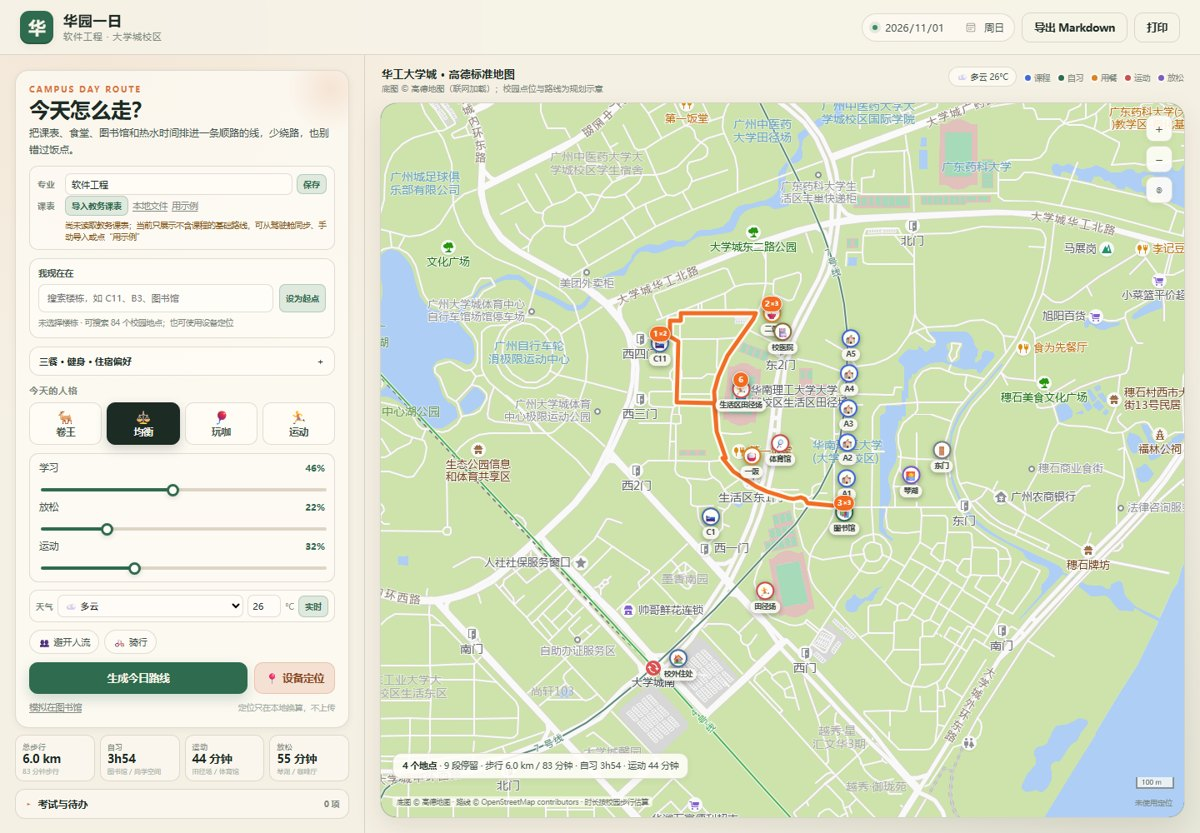
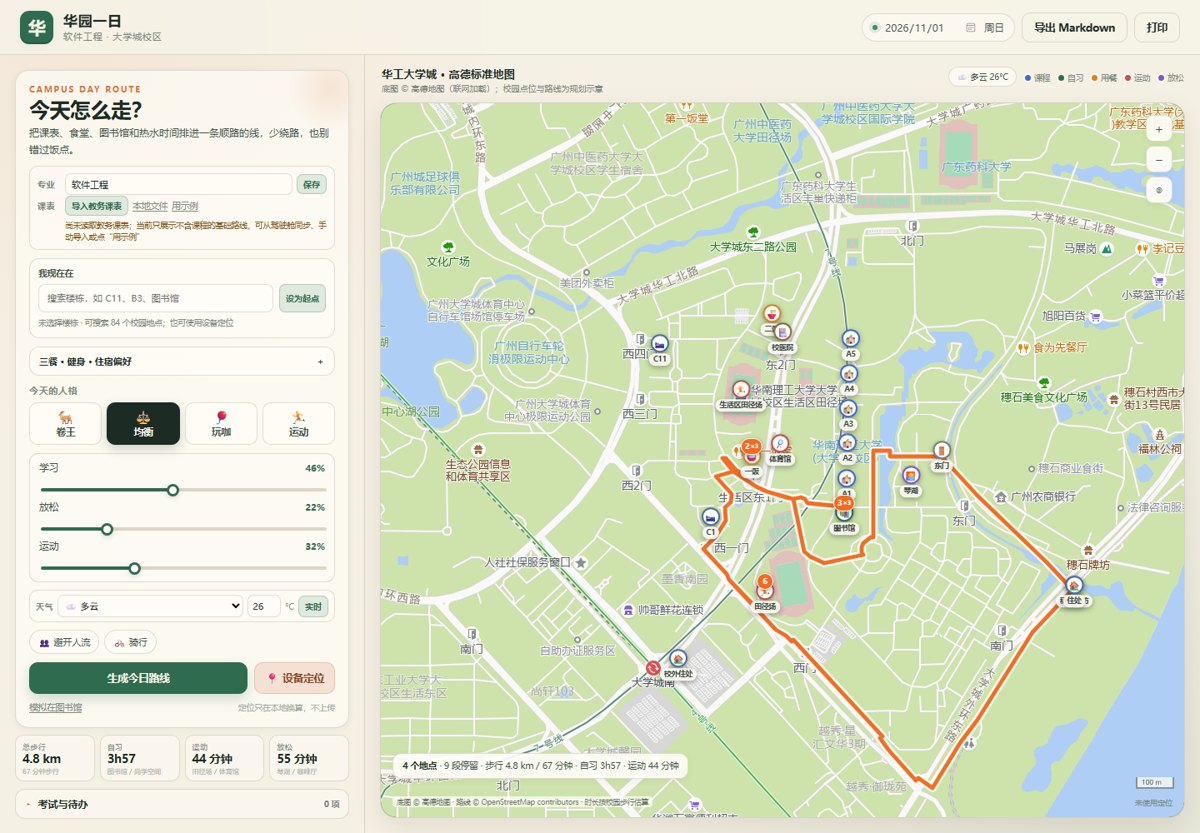
fix: route Suishi walkers through the east gate
Uses a short manual approach from the archway to the East Gate before OSRM routing, avoiding the outer-ring detour.

diff --git a/skills/huayuan-campus-route/public/app.js b/skills/huayuan-campus-route/public/app.js
@@ -256,6 +256,13 @@
   // ---------- 步行道路线（OSM foot routing） ----------
 
   const roadCache = new Map();
+  const SUISHI_APPROACH = [
+    [23.0452, 113.4113],
+    [23.0459, 113.4106],
+    [23.0467, 113.4097],
+    [23.0475, 113.4088],
+    [23.0484, 113.4079],
+  ];
 
   function gcj02ToWgs84(lat, lng) {
     let wlat = lat;
@@ -268,13 +275,20 @@
     return { lat: wlat, lng: wlng };
   }
 
-  async function fetchRoadLeg(from, to) {
-    const key = `${from.lat.toFixed(6)},${from.lng.toFixed(6)}|${to.lat.toFixed(6)},${to.lng.toFixed(6)}`;
+  async function fetchRoadLeg(from, to, via) {
+    const viaKey = via ? `${via.lat.toFixed(6)},${via.lng.toFixed(6)}` : '';
+    const key = `${from.lat.toFixed(6)},${from.lng.toFixed(6)}|${viaKey}|${to.lat.toFixed(6)},${to.lng.toFixed(6)}`;
     if (roadCache.has(key)) return roadCache.get(key);
     const a = gcj02ToWgs84(from.lat, from.lng);
     const b = gcj02ToWgs84(to.lat, to.lng);
+    const coords = [`${a.lng},${a.lat}`];
+    if (via) {
+      const v = gcj02ToWgs84(via.lat, via.lng);
+      coords.push(`${v.lng},${v.lat}`);
+    }
+    coords.push(`${b.lng},${b.lat}`);
     const url =
-      `https://routing.openstreetmap.de/routed-foot/route/v1/foot/${a.lng},${a.lat};${b.lng},${b.lat}` +
+      `https://routing.openstreetmap.de/routed-foot/route/v1/foot/${coords.join(';')}` +
       '?overview=full&geometries=geojson&steps=false';
     const controller = new AbortController();
     const timer = setTimeout(() => controller.abort(), 7000);
@@ -352,7 +366,21 @@
     }
     if (stopPoints.length > 1) {
       Promise.all(
-        stopPoints.slice(0, -1).map((from, index) => fetchRoadLeg(from, stopPoints[index + 1]))
+        stopPoints.slice(0, -1).map((from, index) => {
+          const to = stopPoints[index + 1];
+          if (from.id === 'home_custom' && state.home.id === 'suishi') {
+            const gate = POI.get('eastgate');
+            if (gate) {
+              return fetchRoadLeg(gate, to).then((tail) => {
+                const points = SUISHI_APPROACH.slice();
+                if (tail && tail.length) points.push(...tail.slice(1));
+                else points.push([to.lat, to.lng]);
+                return points;
+              });
+            }
+          }
+          return fetchRoadLeg(from, to);
+        })
       ).then((legs) => {
         if (seq !== routeSeq) return;
         const merged = [];
@@ -1904,6 +1932,9 @@
     if (!homeCoordsValid()) {
       state.home = { id: 'offcampus', address: '大学城南地铁站', lat: 23.04346, lng: 113.40111, offcampus: true };
     }
+  } else if (params.get('home') === 'suishi') {
+    state.dormPoiId = 'offcampus';
+    state.home = { id: 'suishi', address: '穗石牌坊（东门外）', lat: 23.0452, lng: 113.4113, offcampus: true };
   }
   if (TBL) {
     try {
